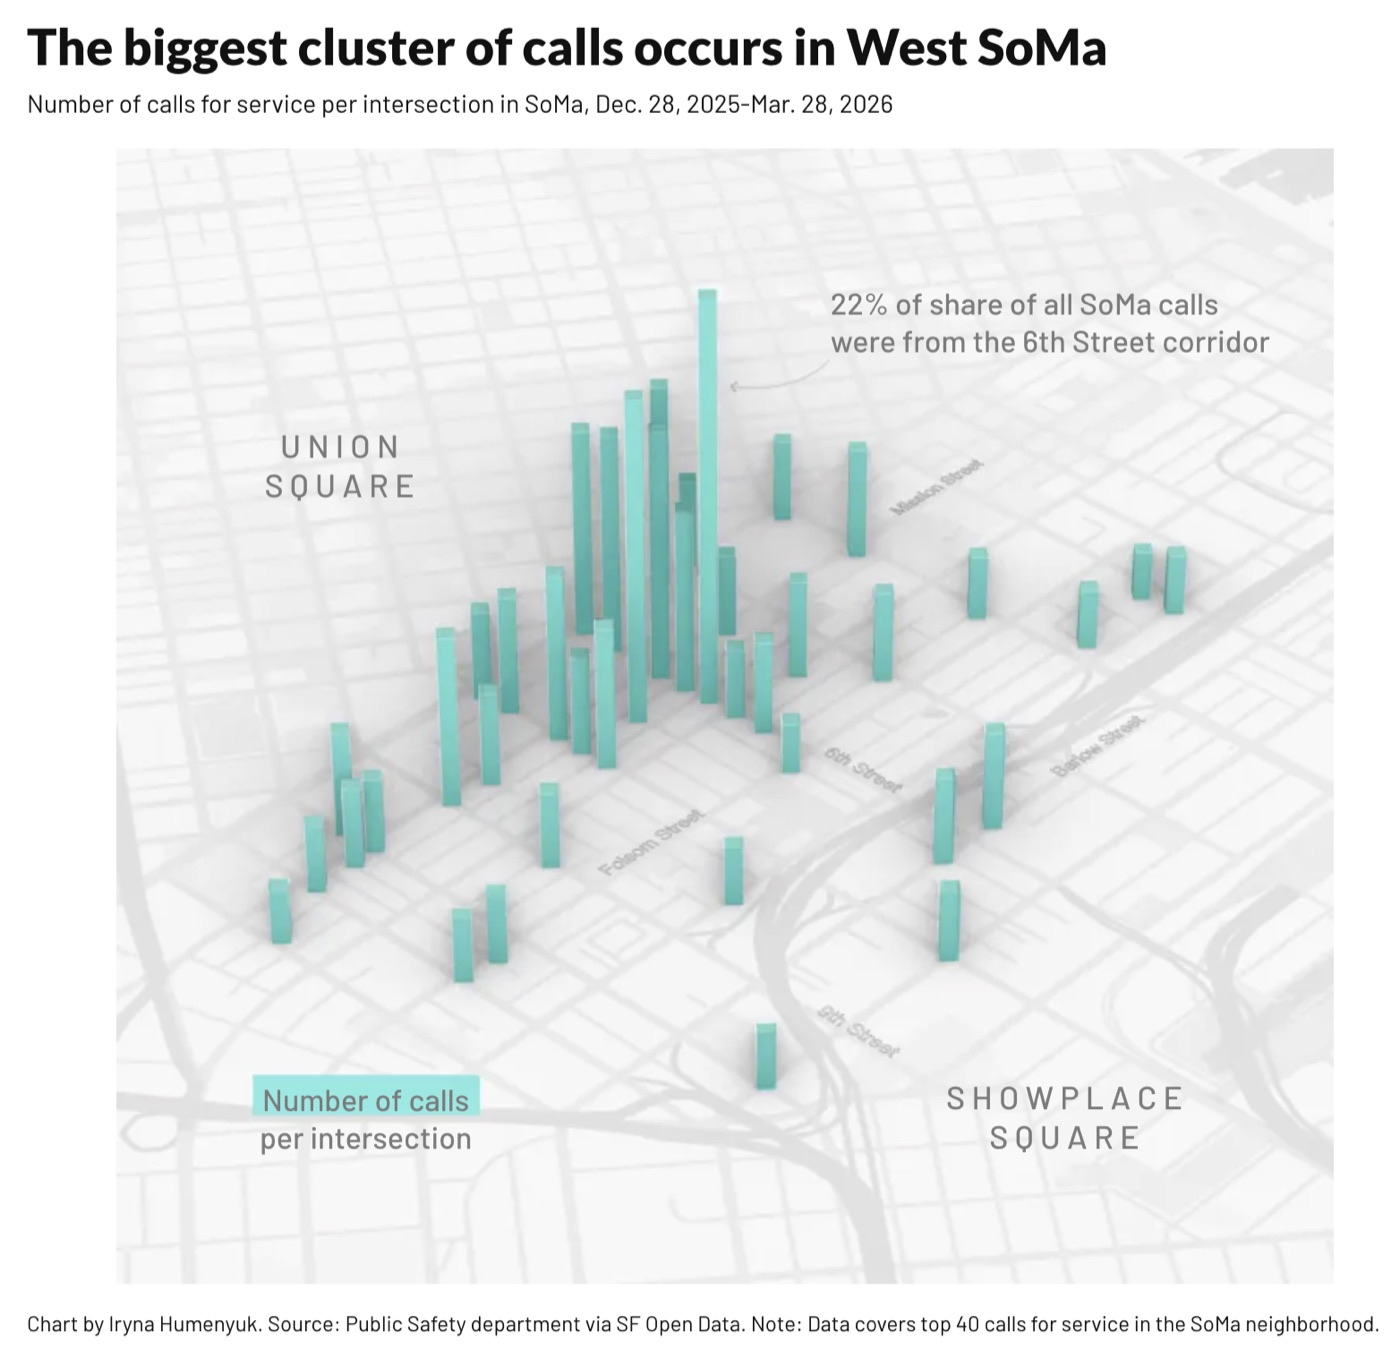
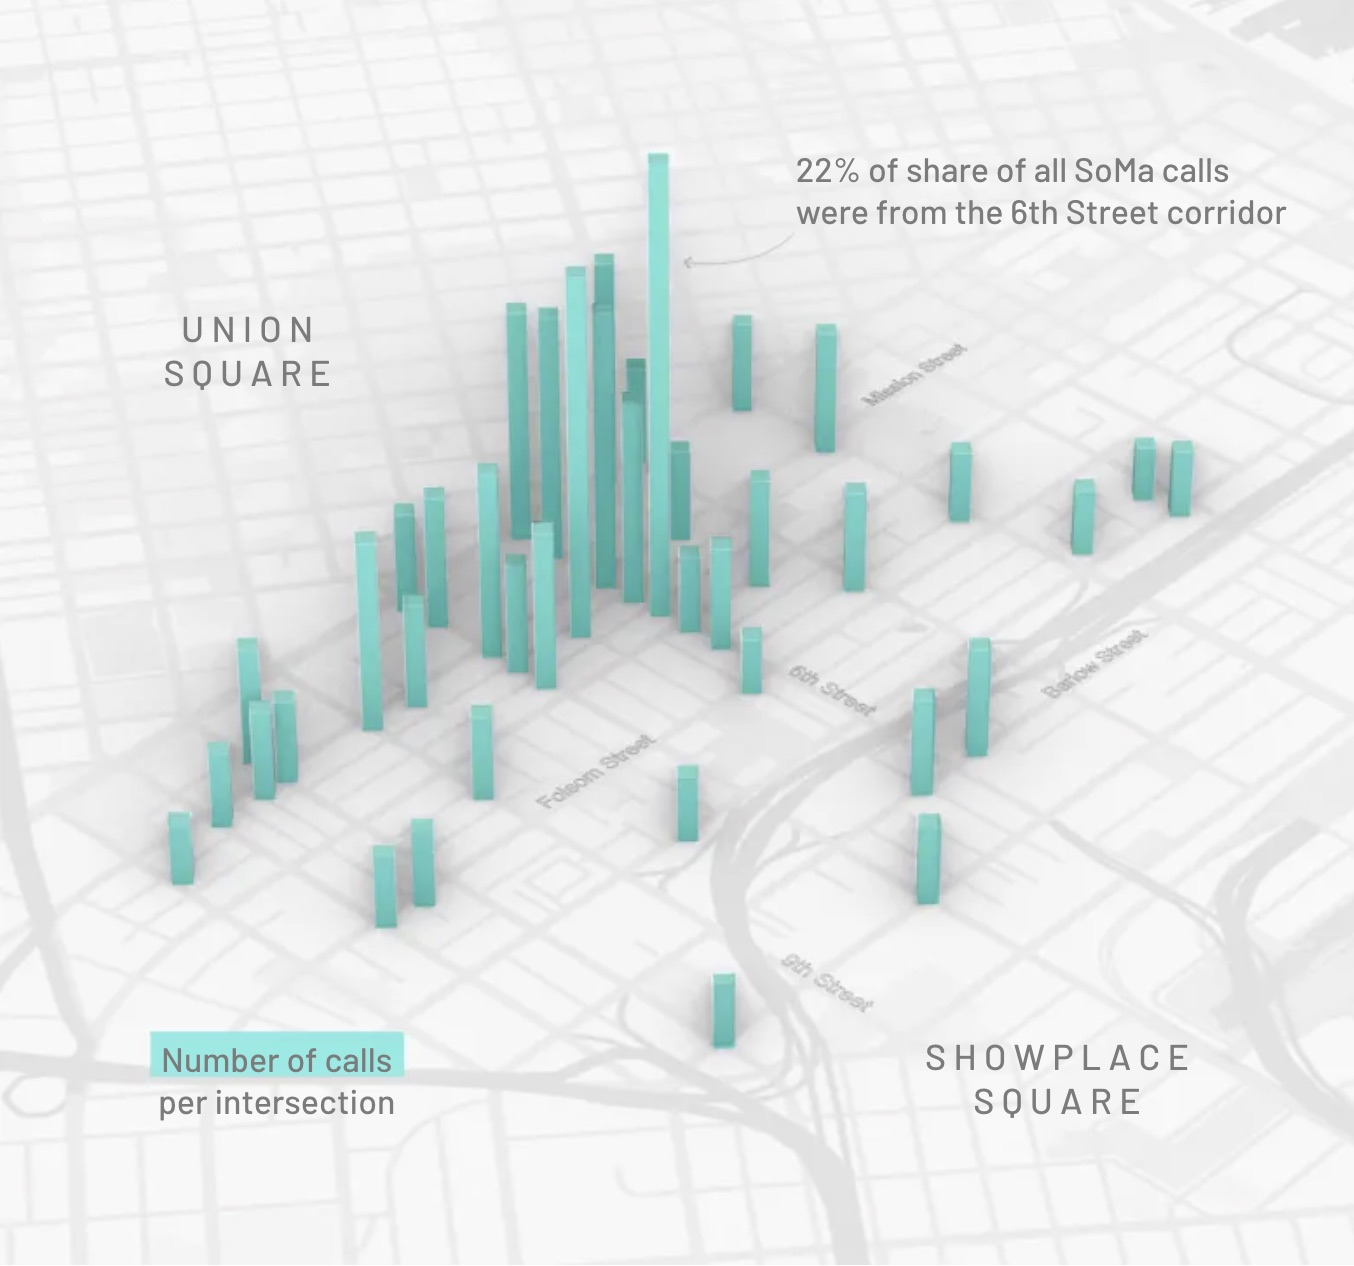
Swap in the tighter SoMa map crop
The new export drops the chart's own headline, dek and source footnote,
which duplicated the column copy and cost vertical space. The figcaption
now carries the source line the image used to hold.

diff --git a/index.html b/index.html
@@ -340,9 +340,9 @@
     <figure>
       <img src="images/soma-containment-zone.jpg"
            alt="Three-dimensional map of SoMa in San Francisco with a bar rising from each intersection in proportion to its calls for service, clustered densely around the 6th Street corridor"
-           loading="lazy" width="1400" height="1367">
+           loading="lazy" width="1354" height="1266">
       <figcaption>Calls for service per intersection, December 2025 to March
-      2026.</figcaption>
+      2026. Source: SF Open Data.</figcaption>
     </figure>
     <p class="meta">Chart for Mission Local &middot; Reporting by Sarah Hopkins
     &middot; <a href="https://missionlocal.org/2026/04/san-francisco-western-soma-crime-containment-zone/">Read it</a></p>
